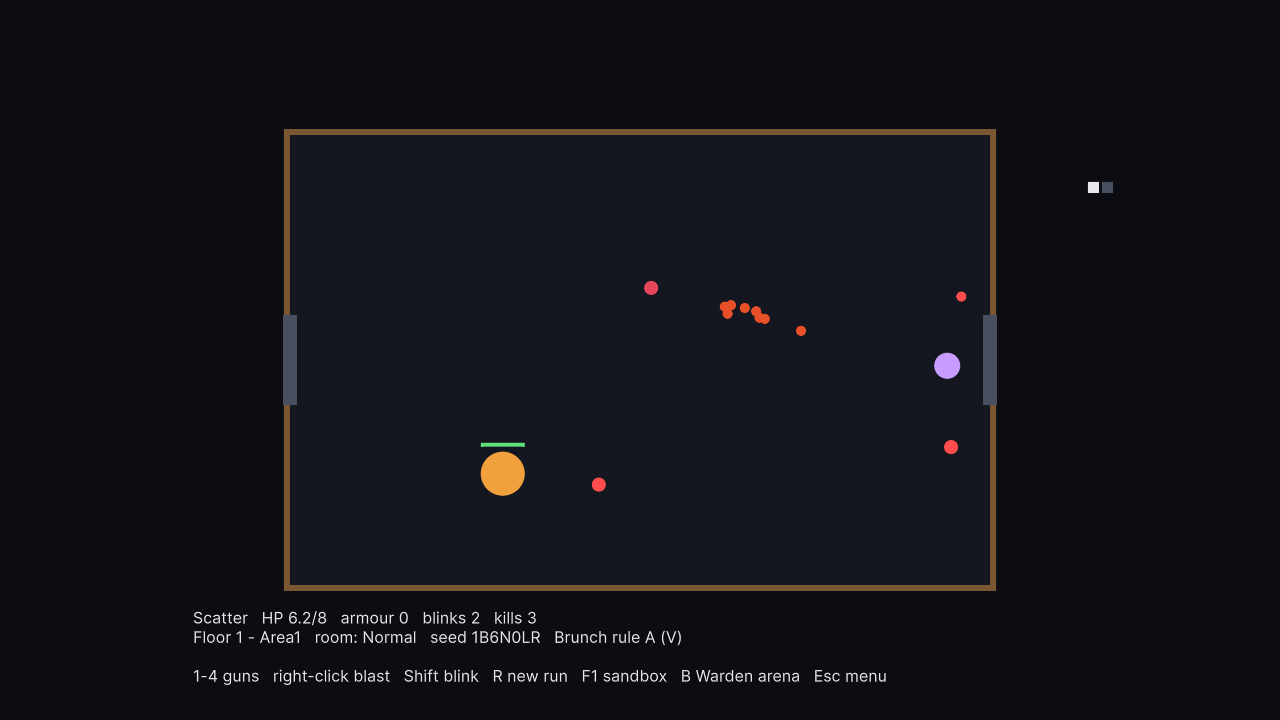
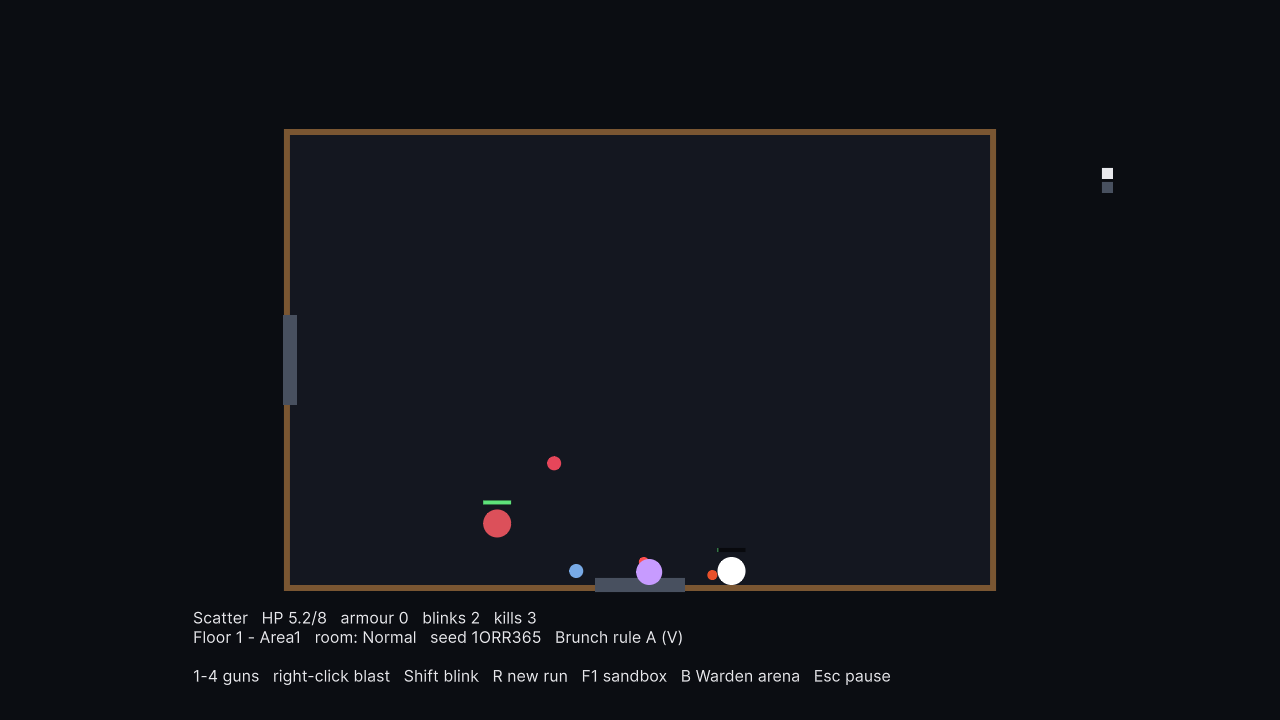
Unity: Esc pauses, a death shows the run, a descent shows the floor
Esc toggles a pause (M from it, or after a death, returns to the menu); the
death screen shows the floor reached, kills, time and seed; descending shows
a FLOOR banner with the area. Screenshots refreshed.

diff --git a/unity/Assets/Depths/Runtime/GameView.cs b/unity/Assets/Depths/Runtime/GameView.cs
@@ -109,8 +109,12 @@ namespace Depths.Unity
             _run.enemies.Add(e);
         }
 
+        bool _paused;
+        int _bannerT, _lastFloor = 1;
+
         void Update()
         {
+            var kb = Keyboard.current;
             if (_painter == null)
             {
                 var root = GetComponent<UIDocument>().rootVisualElement?.Q("gameRoot");
@@ -127,12 +131,13 @@ namespace Depths.Unity
                 _hud.style.width = 900;
                 root.Add(_hud);
             }
-            var kb = Keyboard.current;
-            if (_pause.WasPressedThisFrame()) { SceneManager.LoadScene("MainMenu"); return; }
+            // Esc pauses, as in the game; M from the pause (or after a death) goes back to the menu
+            if (_pause.WasPressedThisFrame() && _run.state == "playing") _paused = !_paused;
+            if ((_paused || _run.state != "playing") && kb != null && kb.mKey.wasPressedThisFrame) { SceneManager.LoadScene("MainMenu"); return; }
             if (kb != null)
             {
                 for (int w = 0; w < 4; w++) if (kb[Key.Digit1 + w].wasPressedThisFrame) _run.player.weaponIdx = w;
-                if (kb.rKey.wasPressedThisFrame) NewRun();
+                if (kb.rKey.wasPressedThisFrame) { NewRun(); _paused = false; _lastFloor = 1; }
                 if (kb.f1Key.wasPressedThisFrame) { _sandbox = !_sandbox; _bossRoom = false; NewRun(); }
                 if (kb.bKey.wasPressedThisFrame) { _bossRoom = !_bossRoom; _sandbox = false; NewRun(); }
                 if (kb.vKey.wasPressedThisFrame)   // cycle the Brunch guard rule under test
@@ -160,7 +165,7 @@ namespace Depths.Unity
             if (_active.WasPressedThisFrame() && _run.state == "playing" && Items.UseActive(_run))
                 Depths.Unity.Audio.SoundEngine.Play("pickup");
 
-            _acc += Math.Min(Time.unscaledDeltaTime * 1000.0, 250.0);
+            _acc += _paused ? 0 : Math.Min(Time.unscaledDeltaTime * 1000.0, 250.0);
             while (_acc >= StepMs)
             {
                 // keys are -1/0/1 per axis in the game, and screen y points down
@@ -178,6 +183,11 @@ namespace Depths.Unity
                 _acc -= StepMs;
             }
             PlayEvents();
+            if (_run.floor != _lastFloor) { _lastFloor = _run.floor; _bannerT = 180; Depths.Unity.Audio.SoundEngine.Play("door"); }
+            if (_bannerT > 0) _bannerT--;
+            _painter.Overlay = _paused ? "PAUSED\n\nEsc resume     M menu"
+                : _run.state != "playing" ? "THE DEPTHS TAKE YOU\n\nfloor " + _run.floor + "   kills " + _run.kills + "   " + (_run.ticks / 210 / 60) + ":" + (_run.ticks / 210 % 60).ToString("00") + "\nseed " + Rng.Encode(_run.rootSeed) + "\n\nR new run     M menu"
+                : _bannerT > 0 ? "FLOOR " + _run.floor + "\n" + AreaRules.AreaForFloor(_run.floor) : null;
             _painter.MarkDirtyRepaint();
             var pl = _run.player;
             var act = Items.ActiveItem(_run);
@@ -192,12 +202,12 @@ namespace Depths.Unity
                             (_run.state == "playing" ? "" : "\nYOU DIED on floor " + _run.floor + " - R for a new run") +
                             "\nFloor " + _run.floor + " - " + AreaRules.AreaForFloor(_run.floor) + "   room: " + (room != null ? room.Type.ToString() : "?") +
                             "   seed " + Rng.Encode(_run.rootSeed) + "   Brunch rule " + Balance.BrunchVariant + " (V)" +
-                            "\n\n1-4 guns   right-click blast   Shift blink   R new run   F1 sandbox   B Warden arena   Esc menu";
+                            "\n\n1-4 guns   right-click blast   Shift blink   R new run   F1 sandbox   B Warden arena   Esc pause";
             }
             else
                 _hud.text = stats + (_run.state == "playing" ? "" : "\nYOU DIED - R for a new room") +
                             "\n" + (_bossRoom ? "Warden arena" : "Sandbox: every enemy, respawning") + " on the ported core.   Brunch rule " + Balance.BrunchVariant + " (V)" +
-                            "\n\n1-4 guns   right-click blast   Shift blink   R new room   F1 real run   B Warden arena   Esc menu";
+                            "\n\n1-4 guns   right-click blast   Shift blink   R new room   F1 real run   B Warden arena   Esc pause";
         }
 
         // The simulation makes no sound; the view hears what changed since the last frame.
@@ -242,6 +252,15 @@ namespace Depths.Unity
     sealed class RoomPainter : VisualElement
     {
         readonly Func<RunState> _run;
+        readonly Label _overlay = new Label();
+        public string Overlay
+        {
+            set
+            {
+                _overlay.text = value ?? "";
+                _overlay.style.display = string.IsNullOrEmpty(value) ? DisplayStyle.None : DisplayStyle.Flex;
+            }
+        }
         static readonly Color Floor = new Color32(20, 23, 32, 255), Wall = new Color32(122, 86, 50, 255),
             PlayerC = new Color32(199, 155, 255, 255), Hostile = new Color32(255, 77, 77, 255);
 
@@ -249,6 +268,15 @@ namespace Depths.Unity
         {
             _run = run;
             generateVisualContent += Paint;
+            _overlay.style.position = Position.Absolute;
+            _overlay.style.left = 290; _overlay.style.top = 250; _overlay.style.width = 700;
+            _overlay.style.unityTextAlign = TextAnchor.MiddleCenter;
+            _overlay.style.fontSize = 28;
+            _overlay.style.color = new Color(0.91f, 0.91f, 0.93f);
+            _overlay.style.backgroundColor = new Color(0.04f, 0.05f, 0.07f, 0.82f);
+            _overlay.style.paddingTop = 18; _overlay.style.paddingBottom = 18;
+            _overlay.style.display = DisplayStyle.None;
+            Add(_overlay);
         }
 
         static Vector2 W(double x, double y) => new Vector2((float)x + 240, (float)y + 5);
